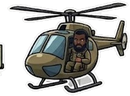
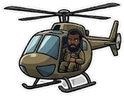
Clean the helicopter sticker's left edge; new boss at the tri-border
terro9 had a strip of its sheet neighbour baked in on the left (new CLEAN
rect). The crossed-AKs head (terro1) is retired from the TRIPLE FRONTIERE
boss zone, replaced by the helmeted fighter (terro5) via the sheet Config.

Changed region(s): [[0.0242, 0.0312, 0.9919, 0.9688], [0.0, 0.4375, 0.0484, 0.75], [0.9435, 0.0312, 0.9919, 0.0625]]

diff --git a/src/make_faces.py b/src/make_faces.py
@@ -190,7 +190,8 @@ def defringe(img):
 DEFRINGE = set()  # plus nécessaire depuis que les liserés blancs sont préservés
 
 # artefacts de la planche à gommer : sticker -> rectangles (fractions l,t,r,b)
-CLEAN = {7: [(0.92, 0.0, 1.0, 0.18), (0.0, 0.92, 0.42, 1.0)]}
+CLEAN = {7: [(0.92, 0.0, 1.0, 0.18), (0.0, 0.92, 0.42, 1.0)],
+         9: [(0.0, 0.0, 0.05, 1.0)]}  # bande du sticker voisin, à gauche de l'hélico
 
 
 def clean_rects(img, rects):

diff --git a/photos/emojis/CLAUDE.md b/photos/emojis/CLAUDE.md
@@ -18,18 +18,18 @@ Arab/Tuareg north; Black → Sahel/Lake Chad/west-Mali groups).
 
 | # | Sticker                        | Zone on the map                      |
 |---|--------------------------------|--------------------------------------|
-| 1 | Black fighter, crossed AKs     | Liptako-Gourma tri-border ("boss")   |
+| 1 | Black fighter, crossed AKs     | (spare — retired from the boss zone, owner disliked it) |
 | 2 | Beige Toyota technical (Arab)  | North Mali                           |
 | 3 | Arab fighter, camo + AK        | (spare)                              |
 | 4 | Black fighter, vest + AK       | Central Mali                         |
-| 5 | Arab fighter, helmet + fist    | (spare)                              |
+| 5 | Arab fighter, helmet + fist    | Liptako-Gourma tri-border ("boss")   |
 | 6 | Arab fighter, profile + AK     | NE-Mauritania military zone          |
 | 7 | Green jeep (Arab driver)       | (spare; had baked sheet artifacts, cleaned via `CLEAN`) |
 | 8 | Blue pickup, 2 Black fighters  | Lake Chad                            |
-| 9 | Helicopter (Black pilot)       | Kayes west (Senegal border)          |
+| 9 | Helicopter (Black pilot)       | Kayes west (Senegal border); neighbour-sticker strip on its left erased via `CLEAN` |
 | 10| Arab fighter running, hoodie   | East-Mauritanian axes to Mali        |
 | 11| Black fighter on yellow disc   | East Burkina                         |
 | 12| Black fighter standing, bandage| Falémé south (Senegal border)        |
 
-Spares (3, 5, 7) are still embedded in `photos.json`, so using one is just a
+Spares (1, 3, 7) are still embedded in `photos.json`, so using one is just a
 new row in the Config tab's `## danger` section.

diff --git a/src/CLAUDE.md b/src/CLAUDE.md
@@ -142,7 +142,7 @@ Hard-won gotchas (do not re-learn these):
 - Dilation before labeling is MaxFilter(5) on the 2× downscale ≈ merges
   gaps <8 px; bigger kernels merged adjacent stickers on the dense sheet.
 - `CLEAN = {sticker_index: [fractional rects]}` erases sheet artifacts baked
-  next to a sticker (currently terro7). `DEFRINGE` (halo peeling) exists but
+  next to a sticker (currently terro7 and terro9). `DEFRINGE` (halo peeling) exists but
   is unused since the outline fix.
 
 ### `data.json` / `photos.json` / `gallery.json`